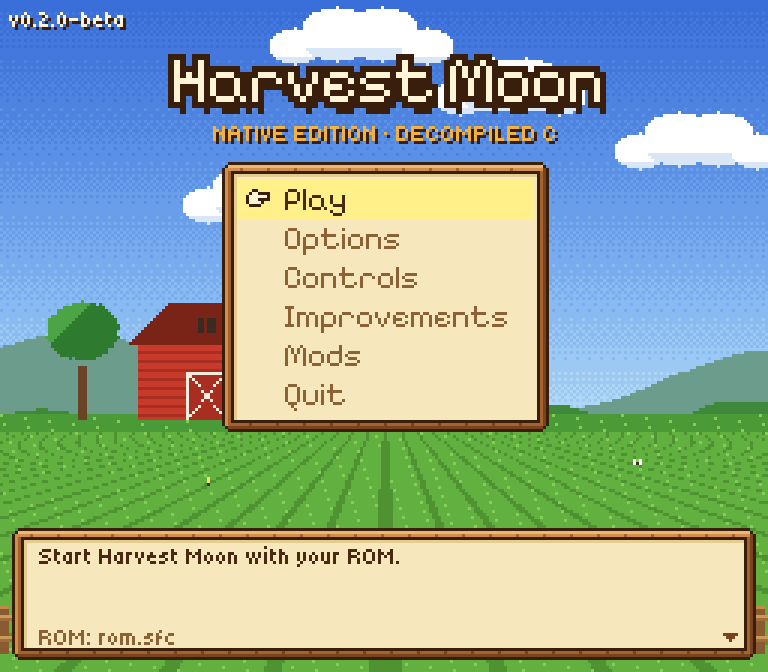
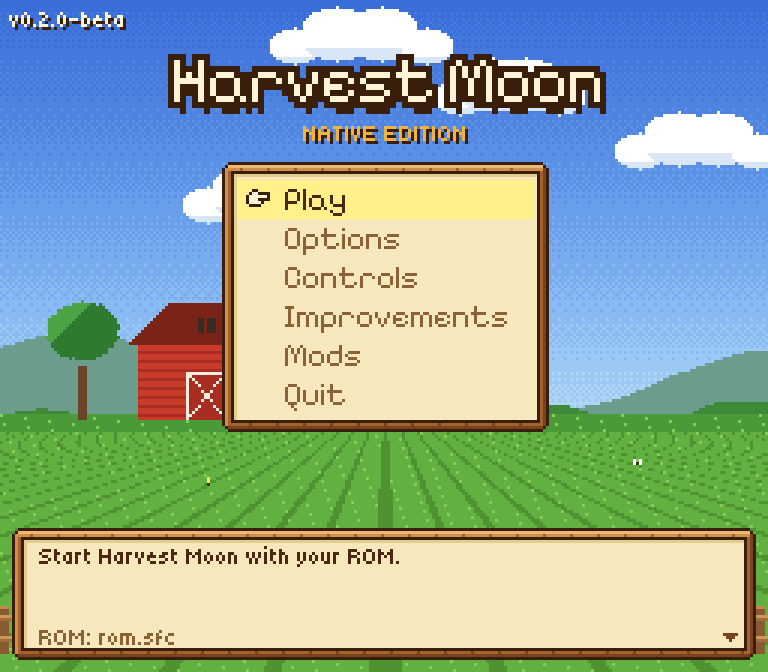
Launcher subtitle: just NATIVE EDITION; HM_RECORD to film the window
The start screen no longer says "DECOMPILED C" under the title.
HM_RECORD / HM_RECORD2 (tests) write every picture of the window and of
the second screen as raw RGB, for making videos.

Changed region(s): [[0.2812, 0.1875, 0.7188, 0.2188]]

diff --git a/native/main.c b/native/main.c
@@ -468,8 +468,32 @@ static bool frame_listed(const char *env)
   for (; e && *e; e = strchr(e, ',') ? strchr(e, ',') + 1 : NULL) if (atol(e) == (long)s_frame) return true;
   return false;
 }
+/* HM_RECORD=file: every picture the window shows, raw RGB (its size), and
+ * HM_RECORD2=file: the second screen's (256 x 224), for making videos */
+static void test_record(void)
+{
+  static FILE *f; static bool init;
+  if (!init) { init = true; const char *p = getenv("HM_RECORD"); if (p) f = fopen(p, "wb"); }
+  if (!f) return;
+  SDL_Surface *sf = SDL_RenderReadPixels(s_renderer, NULL);
+  SDL_Surface *rgb = sf ? SDL_ConvertSurface(sf, SDL_PIXELFORMAT_RGB24) : NULL;
+  if (rgb) for (int y = 0; y < rgb->h; y++) fwrite((uint8_t *)rgb->pixels + y * rgb->pitch, 3, (size_t)rgb->w, f);
+  fflush(f);
+  SDL_DestroySurface(rgb); SDL_DestroySurface(sf);
+}
+static void test_record_second(void)
+{
+  static FILE *f; static bool init;
+  if (!init) { init = true; const char *p = getenv("HM_RECORD2"); if (p) f = fopen(p, "wb"); }
+  if (!f) return;
+  static uint32_t px[256 * 224];
+  second_render(px);
+  for (int i = 0; i < 256 * 224; i++) { uint8_t c[3] = { (uint8_t)(px[i] >> 16), (uint8_t)(px[i] >> 8), (uint8_t)px[i] }; fwrite(c, 1, 3, f); }
+  fflush(f);
+}
 static void test_shot(void)
 {
+  test_record();
   const char *dir = getenv("HM_SHOT_DIR");
   if (!dir || !frame_listed("HM_SHOT_AT")) return;
   SDL_Surface *sf = SDL_RenderReadPixels(s_renderer, NULL);
@@ -1005,6 +1029,7 @@ static void end_of_frame(uint8_t *ram)
   if (!s_headless) {
     test_touch();
     test_second_shot();
+    test_record_second();
     poll_events();
     touch_frame();
     { int rq = touch_request(); if (rq == 1) s_want_pause = true; else if (rq == 2) s_want_launcher = true; }

diff --git a/native/i18n.c b/native/i18n.c
@@ -252,7 +252,7 @@ static const Pair kEs[] = {
   { "Options back to their defaults.", "Opciones como al principio." },
   { "Keys back to their defaults.", "Teclas como al principio." },
   { "Buttons back to their defaults.", "Botones como al principio." },
-  { "NATIVE EDITION · DECOMPILED C", "EDICIÓN NATIVA · C DESCOMPILADO" },
+  { "NATIVE EDITION", "EDICIÓN NATIVA" },
   { "ROM:", "ROM:" },
   { "(none chosen)", "(ninguna elegida)" },
   { "Slot", "Ranura" },
@@ -603,7 +603,7 @@ static const Pair kIt[] = {
   { "Options back to their defaults.", "Opzioni ripristinate." },
   { "Keys back to their defaults.", "Tasti ripristinati." },
   { "Buttons back to their defaults.", "Pulsanti ripristinati." },
-  { "NATIVE EDITION · DECOMPILED C", "EDIZIONE NATIVA · C DECOMPILATO" },
+  { "NATIVE EDITION", "EDIZIONE NATIVA" },
   { "ROM:", "ROM:" },
   { "(none chosen)", "(nessuna scelta)" },
   { "Slot", "Slot" },

diff --git a/native/launcher.c b/native/launcher.c
@@ -724,7 +724,7 @@ static void draw_main(void)
   const char *title = "Harvest Moon";
   ui_text_sh(UI_SMALL, 3, 9, "v" HM_NATIVE_VERSION, C_CREAM);
   ui_text_big(cx - ui_text_big_w(title) / 2, 34, title, C_CREAM, C_WOOD_EDGE);
-  const char *sub = T("NATIVE EDITION · DECOMPILED C");
+  const char *sub = T("NATIVE EDITION");
   ui_text_sh(UI_SMALL, cx - ui_text_w(UI_SMALL, sub) / 2, 47, sub, C_AMBER);
   int bw = 0;
   for (int i = 0; i < L.nitems; i++) { int w = ui_text_w(UI_BODY, L.items[i].label); if (w > bw) bw = w; }
